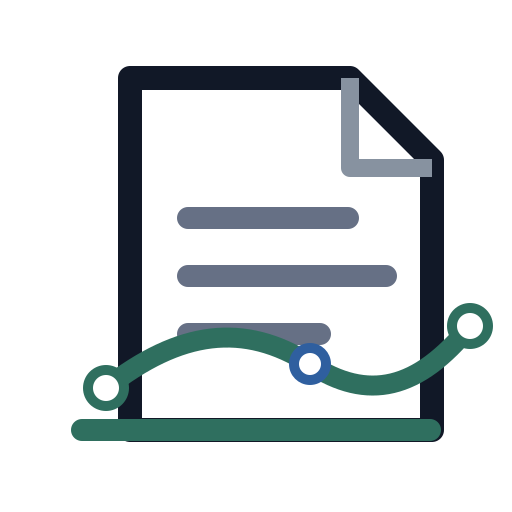
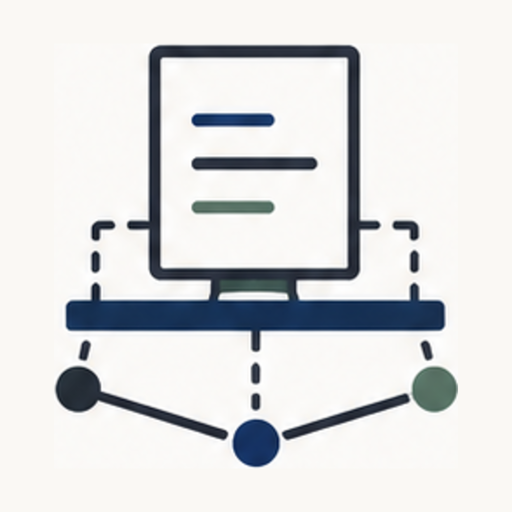
Use generated groundcheck identity assets

diff --git a/README.md b/README.md
@@ -1,6 +1,6 @@
 <div align="center">
 
-<img src=".github/assets/groundcheck-mark.svg" alt="groundcheck mark" width="96">
+<img src=".github/assets/groundcheck-mark-512.png" alt="groundcheck mark" width="96">
 
 </div>
 